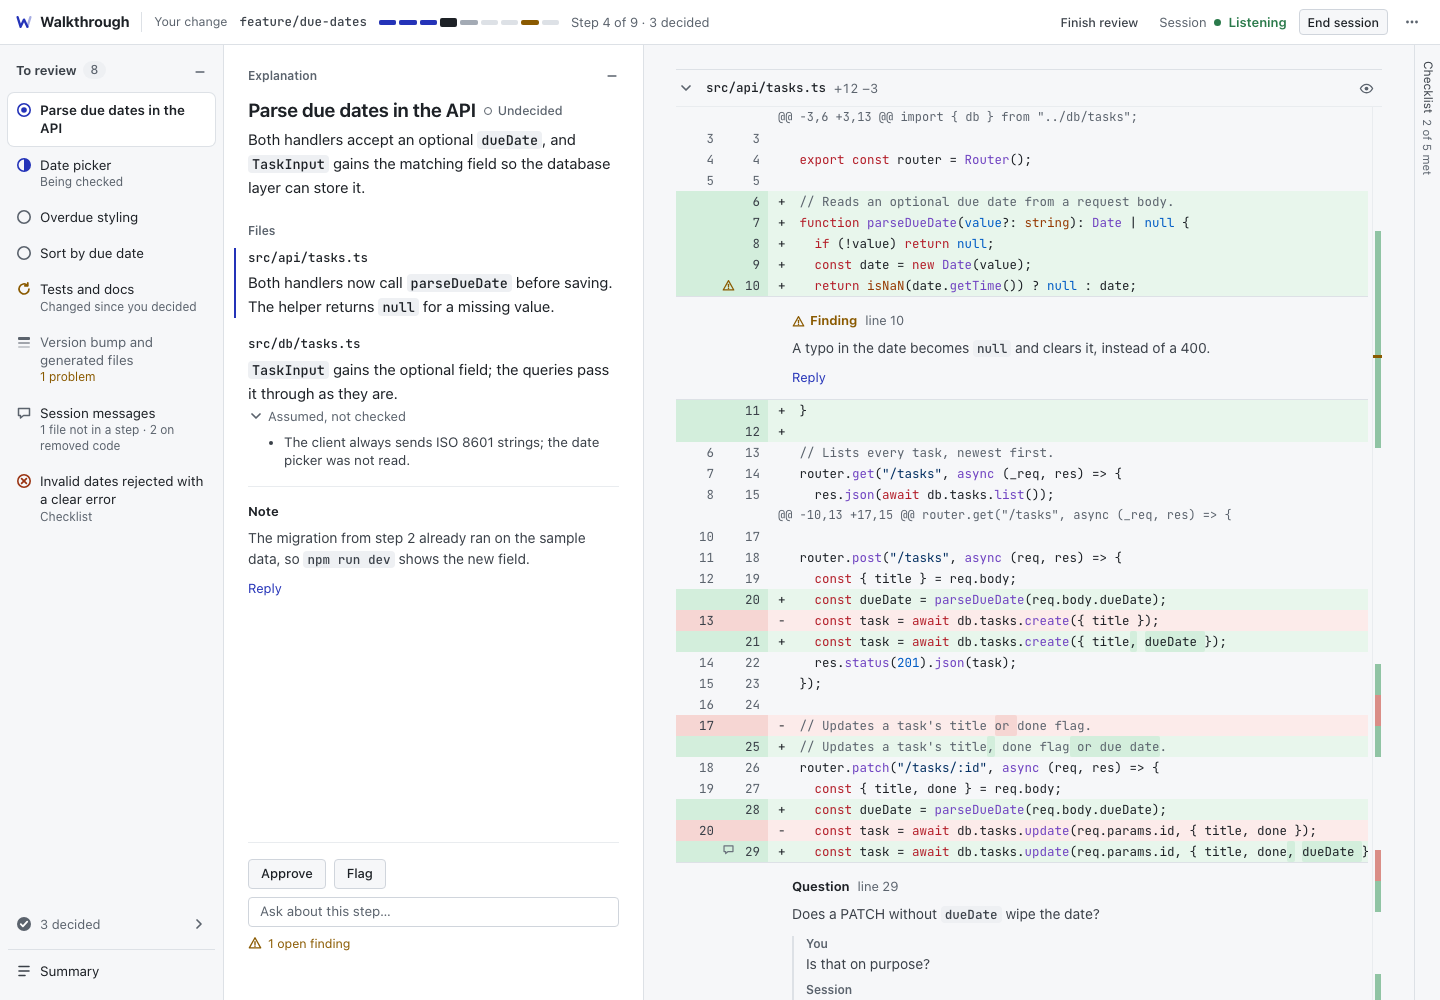
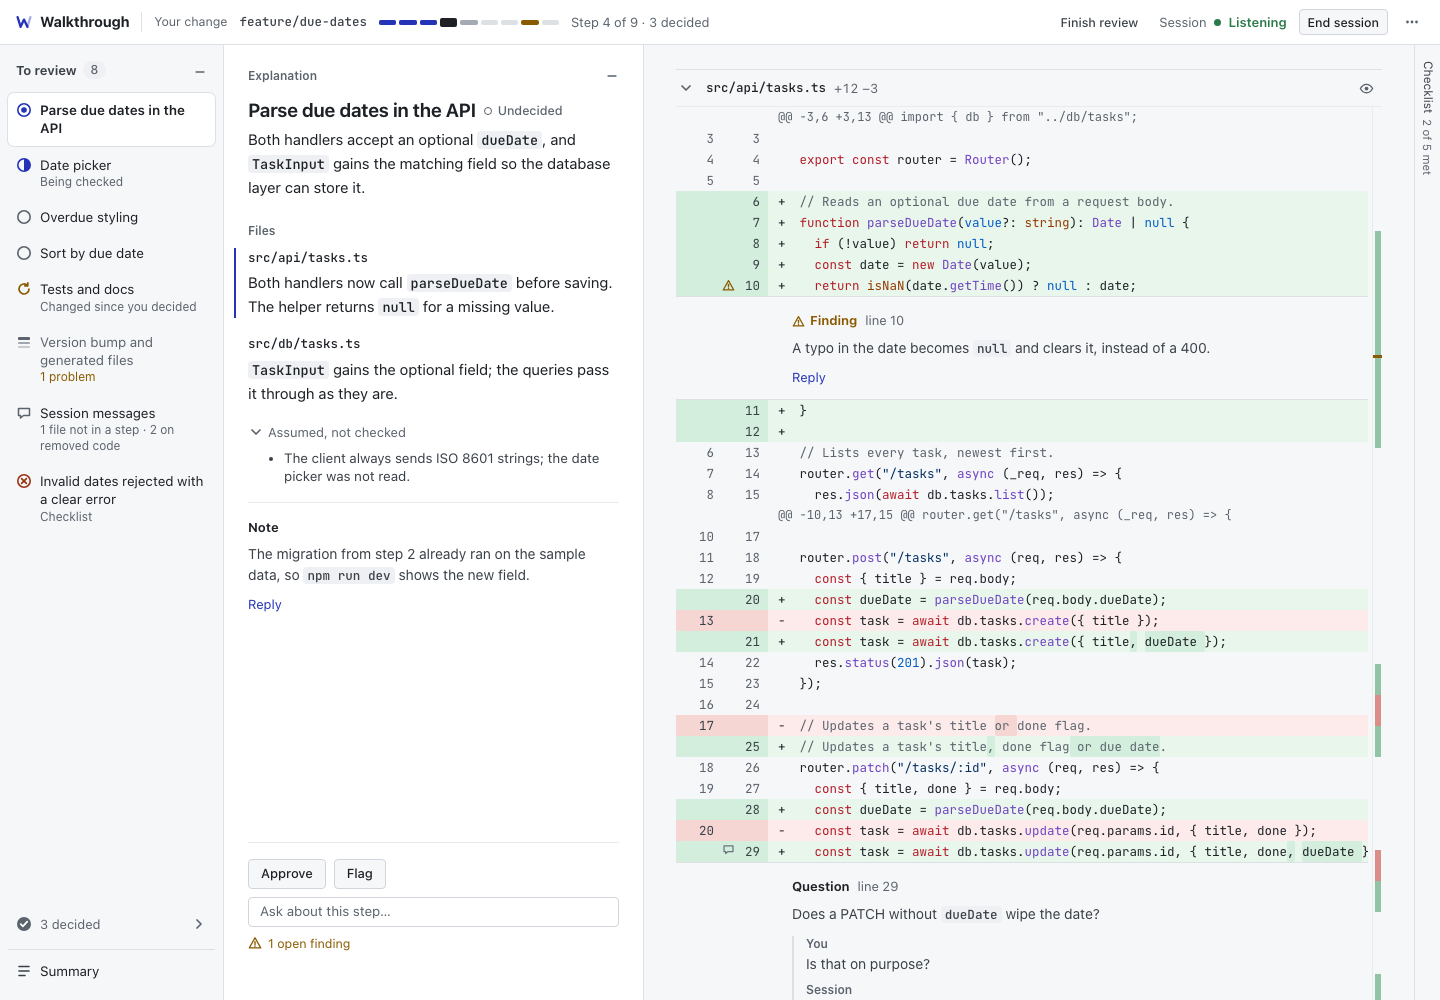
Assumptions sit a block below the Files list, and the unplaced-files notice is as wide as the messages under it
In the explanation column "Assumed, not checked" followed the last file's explanation with no gap; it now has the 16px between blocks. On Session messages the notice stops at the sections' 860px. The README's split layout shot is retaken.

Changed region(s): [[0.1562, 0.496, 0.4062, 0.62], [0.1875, 0.403, 0.4062, 0.496]]

diff --git a/e2e/file-explanations.spec.ts b/e2e/file-explanations.spec.ts
@@ -28,6 +28,7 @@ test.describe('explained files', () => {
       {
         title: 'Login',
         explanation: 'Adds login.',
+        assumptions: ['Callers check the result.'],
         files: ['app.ts', { path: 'big.ts', explanation: 'A long table:\n\n- one\n- two' }, { path: 'login.ts', explanation: 'Lets **everyone** in.' }],
       },
     ]);
@@ -66,6 +67,11 @@ test.describe('explained files', () => {
     await expect(files.locator('.file-explanation')).toHaveText([/^A long table:\s*one\s*two\s*$/, 'Lets everyone in.']);
     await expect(files.locator('.file-explanation').first()).toHaveCSS('font-size', '15px');
     await expect(code.locator('.file-explanation')).toHaveCount(0);
+    const gap = await prose.evaluate(column => {
+      const edge = (selector: string, side: 'top' | 'bottom') => column.querySelector(selector)?.getBoundingClientRect()[side] ?? NaN;
+      return edge('.assumptions', 'top') - edge('.files-block', 'bottom');
+    });
+    expect(gap).toBeCloseTo(16, 1);
     const entry = (path: string) => files.getByRole('listitem').filter({ has: page.getByRole('link', { name: path }) });
     // app.ts is at the top of the code pane and has no explanation.
     await expect(files.locator('[aria-current]')).toHaveCount(0);

diff --git a/e2e/moved-head.spec.ts b/e2e/moved-head.spec.ts
@@ -91,6 +91,8 @@ test('changed files in no step yet are named until the session records steps for
   await fromSession.click();
   await expect(notice).toContainText('cart.ts');
   await expect(notice).not.toContainText('login.ts');
+  const [box, section] = await Promise.all([notice.boundingBox(), page.getByRole('region', { name: /Notes on removed code/ }).boundingBox()]);
+  expect(box?.width).toBe(section?.width);
 
   record(repo, [
     { title: 'Login check', explanation: 'Adds a login function.', files: ['login.ts'] },

diff --git a/src/page/styles/panes.css b/src/page/styles/panes.css
@@ -373,6 +373,10 @@
   margin-top: var(--s4);
 }
 
+.files-block + .assumptions {
+  margin-top: var(--s4);
+}
+
 .files-head {
   margin: 0 0 var(--s2);
   color: var(--muted);
@@ -1002,6 +1006,8 @@
 }
 
 .messages > .notice {
+  max-width: 860px;
+  box-sizing: border-box;
   margin-bottom: var(--s4);
 }
 
